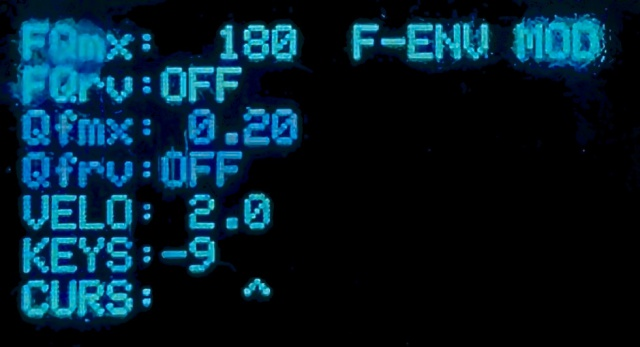
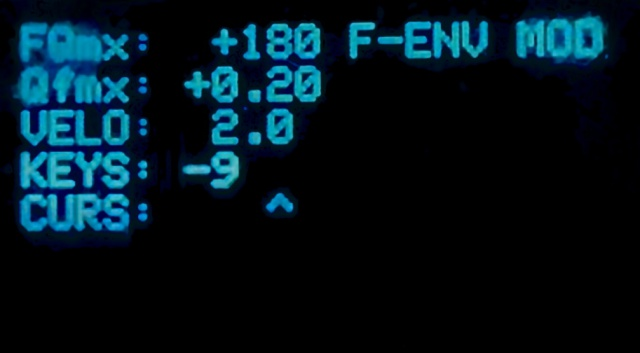
Doc

diff --git a/Doc/UsersManual_jp.md b/Doc/UsersManual_jp.md
@@ -572,32 +572,24 @@
 	
 ### 15-2. FQmx (RT1)  
 
-	フィルターのカットオフ周波数の最大変動幅（周波数）を設定します。  
-
-### 15-3. FQrv (RT2)  
-
-	フィルターのカットオフ周波数の変動幅を反転（減少）させるか否かの設定をします。OFFで増加、ONで減少します。  
+	フィルターのカットオフ周波数の最大変動幅（周波数）を設定します。マイナスの値の場合はカットオフ周波数が減少する方向へ変動します。  
 	
-### 15-4. Qfmx (RT3)  
+### 15-3. Qfmx (RT2)  
 
-	フィルターのQファクター値の最大変動幅を設定します。  
+	フィルターのQファクター値の最大変動幅を設定します。マイナスの値の場合はQファクター値が減少する方向へ変動します。    
 
-### 15-5. Qfrv (RT4)  
-
-	フィルターのQファクター値の変動幅を反転（減少）させるか否かの設定をします。OFFで増加、ONで減少します。  
-
-### 15-6. VELO (RT5)  
+### 15-4. VELO (RT3)  
 
 	フィルターエンベロープにベロシティーを反映する度合いを設定します。0.0でベロシティーを無視、それ以上の値はベロシティーでエンベロープを大きくする度合いになります。  
 
-### 15-7. KEYS (RT6)  
+### 15-5. KEYS (RT4)  
 
 	キー・スケール・センシティビティーは音程に従ってフィルターの適用度合いを変化させます。値は-9から+9です。  
 	0ではキー・スケール・センシティビティーは無効で、全音程でADSRとベロシティーの値に従います。  
 	正の値にすると、音程が高くなるにつれてアタックとサステインのレベルが両方とも大きくなります。  
 	負の値にすると、音程が高くなるにつれてアタックとサステインのレベルが両方とも小さくなります。  
 
-### 15-8. CURS (RT7)  
+### 15-6. CURS (RT5)  
 
 	増減する実数値の桁位置を設定します。  
 

diff --git a/Doc/UsersManual.md b/Doc/UsersManual.md
@@ -545,32 +545,22 @@ You can edit how to apply the filter envelope to the filter.
 	
 ### 15-2. FQmx (RT1)  
 
-Maximum fluctuation of the cut off frequency by the filter envelope.  
-
-### 15-3. FQrv (RT2)  
-
-Turn off: Positive envelope for the cut off frequency.  
-Turn on: Negative envelope for the cut off frequency.    
+Maximum fluctuation of the cut off frequency by the filter envelope.  Negative value makes decrease the cut off frequency.  
 	
-### 15-4. Qfmx (RT3)  
+### 15-3. Qfmx (RT2)  
 
-Maximum fluctuation of the resonance by the filter envelope.  
+Maximum fluctuation of the resonance by the filter envelope.  Negative value makes decrease the resonance.  
 
-### 15-5. Qfrv (RT4)  
-
-Turn off: Positive envelope for the resonance.  
-Turn on: Negative envelope for the resonance.    
-
-### 15-6. VELO (RT5)  
+### 15-4. VELO (RT3)  
 
 You can edit the ratio which MIDI Note-ON velocity affects to the filter envelope.  0.0 is to ignore the velocity.  Larger value (up to 5.0), you will get larger envelope.  
 
-### 15-7. KEYS (RT6)  
+### 15-5. KEYS (RT4)  
 
 Key scale sensitivity from -9 to +9.  
 0 for no key sensitivity.  Positive value makes both attack and sustain levels larger along getting key note higher.  Negative value makes both of them smaller along getting key note higher.  
 
-### 15-8. CURS (RT7)  
+### 15-6. CURS (RT5)  
 
 Move cursor to edit position.  
 
